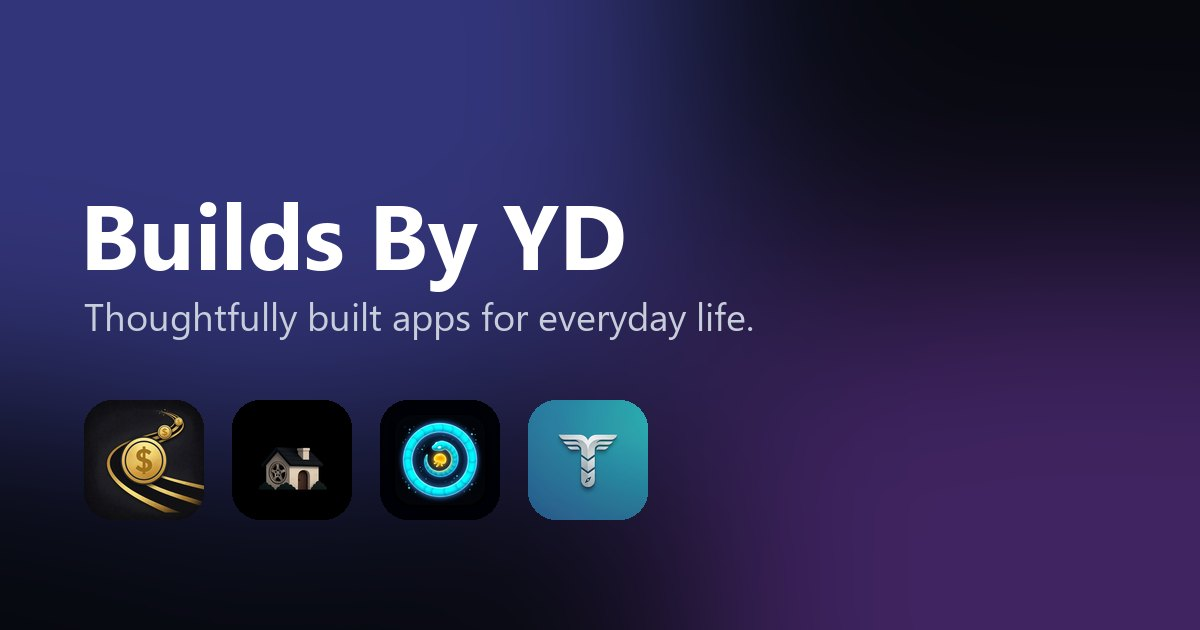
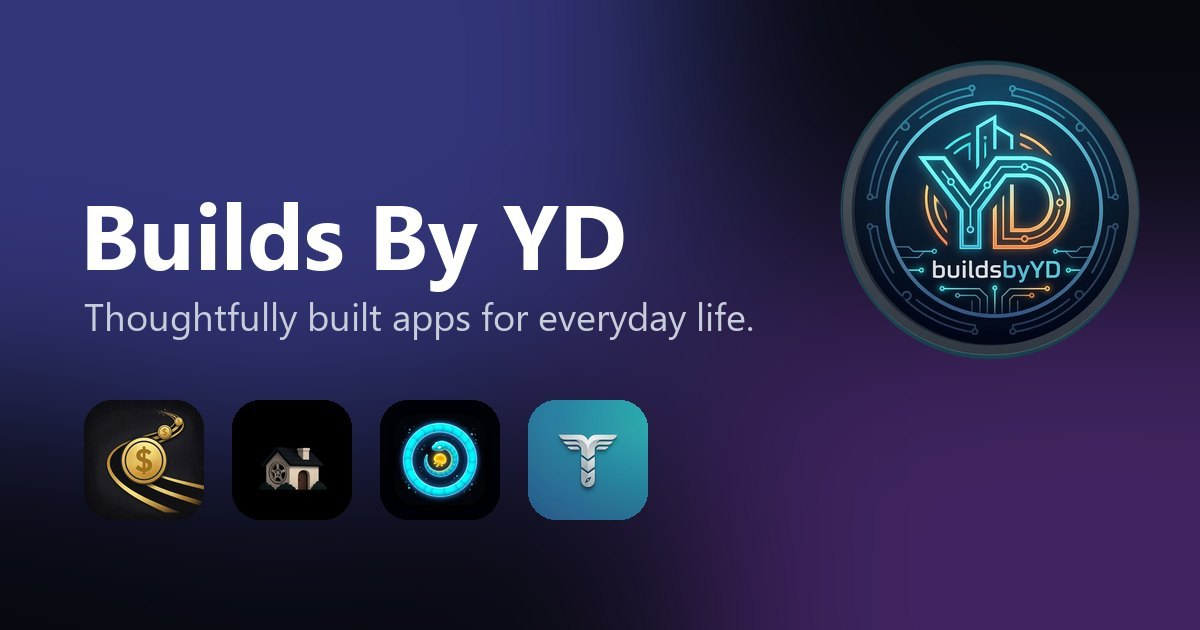
Add files via upload

Changed region(s): [[0.6783, 0.0905, 0.9558, 0.573]]

diff --git a/builds-tv/index.html b/builds-tv/index.html
@@ -26,7 +26,7 @@
 <body>
 <header class="nav">
   <div class="wrap">
-    <a class="brand" href="../" aria-label="Builds By YD home"><span class="brand-mark">YD</span>Builds By YD</a>
+    <a class="brand" href="../" aria-label="Builds By YD home"><img class="brand-logo" src="../assets/img/logo-128.webp" alt="" width="36" height="36">Builds By YD</a>
     <button class="menu-btn" aria-label="Menu" aria-expanded="false"><span></span><span></span><span></span></button>
     <nav class="nav-links">
       <a href="../#apps">Apps</a>
@@ -77,7 +77,7 @@
   <div class="wrap">
     <div class="cols">
       <div>
-        <a class="brand" href="../"><span class="brand-mark">YD</span>Builds By YD</a>
+        <a class="brand" href="../"><img class="brand-logo" src="../assets/img/logo-128.webp" alt="" width="36" height="36">Builds By YD</a>
         <p>Thoughtfully built apps for everyday life, plus videos on cars, tech, coffee and more.</p>
       </div>
       <div><h4>Apps</h4><ul><li><a href="../cashtrack/">CashTrack</a></li><li><a href="../revonate/">Revonate</a></li><li><a href="../snake-abyss/">Snake Abyss</a></li><li><a href="../tripkit/">TripKit</a></li><li><a href="../builds-tv/">Builds TV</a></li></ul></div>

diff --git a/cashtrack/index.html b/cashtrack/index.html
@@ -26,7 +26,7 @@
 <body>
 <header class="nav">
   <div class="wrap">
-    <a class="brand" href="../" aria-label="Builds By YD home"><span class="brand-mark">YD</span>Builds By YD</a>
+    <a class="brand" href="../" aria-label="Builds By YD home"><img class="brand-logo" src="../assets/img/logo-128.webp" alt="" width="36" height="36">Builds By YD</a>
     <button class="menu-btn" aria-label="Menu" aria-expanded="false"><span></span><span></span><span></span></button>
     <nav class="nav-links">
       <a href="../#apps">Apps</a>
@@ -88,7 +88,7 @@
   <div class="wrap">
     <div class="cols">
       <div>
-        <a class="brand" href="../"><span class="brand-mark">YD</span>Builds By YD</a>
+        <a class="brand" href="../"><img class="brand-logo" src="../assets/img/logo-128.webp" alt="" width="36" height="36">Builds By YD</a>
         <p>Thoughtfully built apps for everyday life, plus videos on cars, tech, coffee and more.</p>
       </div>
       <div><h4>Apps</h4><ul><li><a href="../cashtrack/">CashTrack</a></li><li><a href="../revonate/">Revonate</a></li><li><a href="../snake-abyss/">Snake Abyss</a></li><li><a href="../tripkit/">TripKit</a></li><li><a href="../builds-tv/">Builds TV</a></li></ul></div>

diff --git a/revonate/index.html b/revonate/index.html
@@ -26,7 +26,7 @@
 <body>
 <header class="nav">
   <div class="wrap">
-    <a class="brand" href="../" aria-label="Builds By YD home"><span class="brand-mark">YD</span>Builds By YD</a>
+    <a class="brand" href="../" aria-label="Builds By YD home"><img class="brand-logo" src="../assets/img/logo-128.webp" alt="" width="36" height="36">Builds By YD</a>
     <button class="menu-btn" aria-label="Menu" aria-expanded="false"><span></span><span></span><span></span></button>
     <nav class="nav-links">
       <a href="../#apps">Apps</a>
@@ -83,7 +83,7 @@
   <div class="wrap">
     <div class="cols">
       <div>
-        <a class="brand" href="../"><span class="brand-mark">YD</span>Builds By YD</a>
+        <a class="brand" href="../"><img class="brand-logo" src="../assets/img/logo-128.webp" alt="" width="36" height="36">Builds By YD</a>
         <p>Thoughtfully built apps for everyday life, plus videos on cars, tech, coffee and more.</p>
       </div>
       <div><h4>Apps</h4><ul><li><a href="../cashtrack/">CashTrack</a></li><li><a href="../revonate/">Revonate</a></li><li><a href="../snake-abyss/">Snake Abyss</a></li><li><a href="../tripkit/">TripKit</a></li><li><a href="../builds-tv/">Builds TV</a></li></ul></div>

diff --git a/snake-abyss/index.html b/snake-abyss/index.html
@@ -26,7 +26,7 @@
 <body>
 <header class="nav">
   <div class="wrap">
-    <a class="brand" href="../" aria-label="Builds By YD home"><span class="brand-mark">YD</span>Builds By YD</a>
+    <a class="brand" href="../" aria-label="Builds By YD home"><img class="brand-logo" src="../assets/img/logo-128.webp" alt="" width="36" height="36">Builds By YD</a>
     <button class="menu-btn" aria-label="Menu" aria-expanded="false"><span></span><span></span><span></span></button>
     <nav class="nav-links">
       <a href="../#apps">Apps</a>
@@ -83,7 +83,7 @@
   <div class="wrap">
     <div class="cols">
       <div>
-        <a class="brand" href="../"><span class="brand-mark">YD</span>Builds By YD</a>
+        <a class="brand" href="../"><img class="brand-logo" src="../assets/img/logo-128.webp" alt="" width="36" height="36">Builds By YD</a>
         <p>Thoughtfully built apps for everyday life, plus videos on cars, tech, coffee and more.</p>
       </div>
       <div><h4>Apps</h4><ul><li><a href="../cashtrack/">CashTrack</a></li><li><a href="../revonate/">Revonate</a></li><li><a href="../snake-abyss/">Snake Abyss</a></li><li><a href="../tripkit/">TripKit</a></li><li><a href="../builds-tv/">Builds TV</a></li></ul></div>

diff --git a/tripkit/index.html b/tripkit/index.html
@@ -26,7 +26,7 @@
 <body>
 <header class="nav">
   <div class="wrap">
-    <a class="brand" href="../" aria-label="Builds By YD home"><span class="brand-mark">YD</span>Builds By YD</a>
+    <a class="brand" href="../" aria-label="Builds By YD home"><img class="brand-logo" src="../assets/img/logo-128.webp" alt="" width="36" height="36">Builds By YD</a>
     <button class="menu-btn" aria-label="Menu" aria-expanded="false"><span></span><span></span><span></span></button>
     <nav class="nav-links">
       <a href="../#apps">Apps</a>
@@ -77,7 +77,7 @@
   <div class="wrap">
     <div class="cols">
       <div>
-        <a class="brand" href="../"><span class="brand-mark">YD</span>Builds By YD</a>
+        <a class="brand" href="../"><img class="brand-logo" src="../assets/img/logo-128.webp" alt="" width="36" height="36">Builds By YD</a>
         <p>Thoughtfully built apps for everyday life, plus videos on cars, tech, coffee and more.</p>
       </div>
       <div><h4>Apps</h4><ul><li><a href="../cashtrack/">CashTrack</a></li><li><a href="../revonate/">Revonate</a></li><li><a href="../snake-abyss/">Snake Abyss</a></li><li><a href="../tripkit/">TripKit</a></li><li><a href="../builds-tv/">Builds TV</a></li></ul></div>

diff --git a/404.html b/404.html
@@ -25,7 +25,7 @@
 <body>
 <header class="nav">
   <div class="wrap">
-    <a class="brand" href="/" aria-label="Builds By YD home"><span class="brand-mark">YD</span>Builds By YD</a>
+    <a class="brand" href="/" aria-label="Builds By YD home"><img class="brand-logo" src="/assets/img/logo-128.webp" alt="" width="36" height="36">Builds By YD</a>
     <button class="menu-btn" aria-label="Menu" aria-expanded="false"><span></span><span></span><span></span></button>
     <nav class="nav-links">
       <a href="/#apps">Apps</a>
@@ -46,7 +46,7 @@
   <div class="wrap">
     <div class="cols">
       <div>
-        <a class="brand" href="/"><span class="brand-mark">YD</span>Builds By YD</a>
+        <a class="brand" href="/"><img class="brand-logo" src="/assets/img/logo-128.webp" alt="" width="36" height="36">Builds By YD</a>
         <p>Thoughtfully built apps for everyday life, plus videos on cars, tech, coffee and more.</p>
       </div>
       <div><h4>Apps</h4><ul><li><a href="/cashtrack/">CashTrack</a></li><li><a href="/revonate/">Revonate</a></li><li><a href="/snake-abyss/">Snake Abyss</a></li><li><a href="/tripkit/">TripKit</a></li><li><a href="/builds-tv/">Builds TV</a></li></ul></div>

diff --git a/index.html b/index.html
@@ -27,7 +27,7 @@
 <body>
 <header class="nav">
   <div class="wrap">
-    <a class="brand" href="./" aria-label="Builds By YD home"><span class="brand-mark">YD</span>Builds By YD</a>
+    <a class="brand" href="./" aria-label="Builds By YD home"><img class="brand-logo" src="assets/img/logo-128.webp" alt="" width="36" height="36">Builds By YD</a>
     <button class="menu-btn" aria-label="Menu" aria-expanded="false"><span></span><span></span><span></span></button>
     <nav class="nav-links">
       <a href="#apps">Apps</a>
@@ -199,7 +199,7 @@
   <div class="wrap">
     <div class="cols">
       <div>
-        <a class="brand" href="./"><span class="brand-mark">YD</span>Builds By YD</a>
+        <a class="brand" href="./"><img class="brand-logo" src="assets/img/logo-128.webp" alt="" width="36" height="36">Builds By YD</a>
         <p>Thoughtfully built apps for everyday life, plus videos on cars, tech, coffee and more.</p>
       </div>
       <div><h4>Apps</h4><ul><li><a href="cashtrack/">CashTrack</a></li><li><a href="revonate/">Revonate</a></li><li><a href="snake-abyss/">Snake Abyss</a></li><li><a href="tripkit/">TripKit</a></li><li><a href="builds-tv/">Builds TV</a></li></ul></div>

diff --git a/assets/site.css b/assets/site.css
@@ -360,3 +360,6 @@ section { position: relative; z-index: 1; }
 .to-top:hover { background: rgba(40, 46, 66, 0.9); }
 .to-top svg { width: 20px; height: 20px; }
 @media (max-width: 620px) { .to-top { right: 16px; bottom: 16px; } }
+
+/* real Builds By YD logo in the header and footer */
+.brand-logo { width: 40px; height: 40px; border-radius: 50%; box-shadow: 0 0 18px rgba(56, 189, 248, 0.35); }
